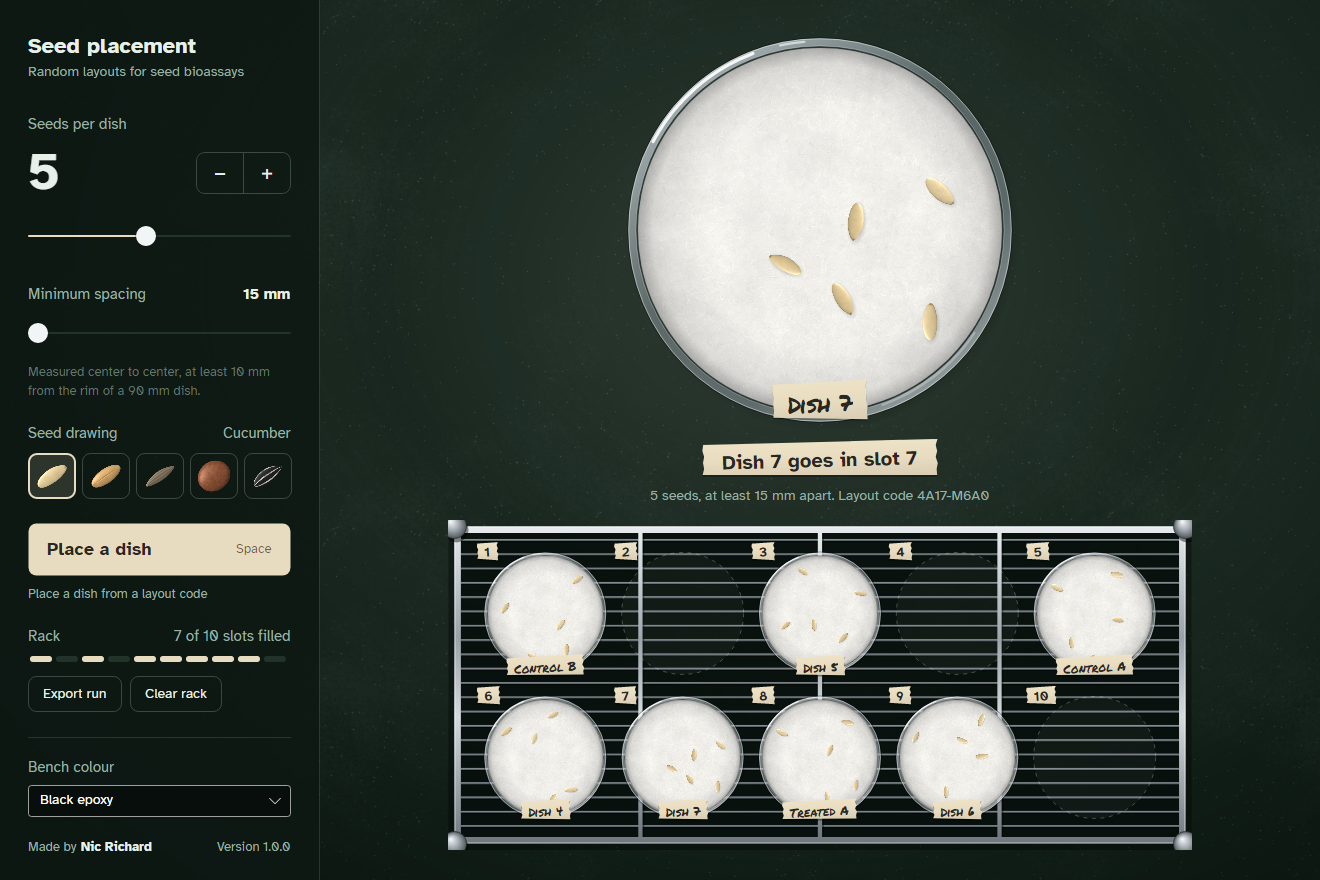
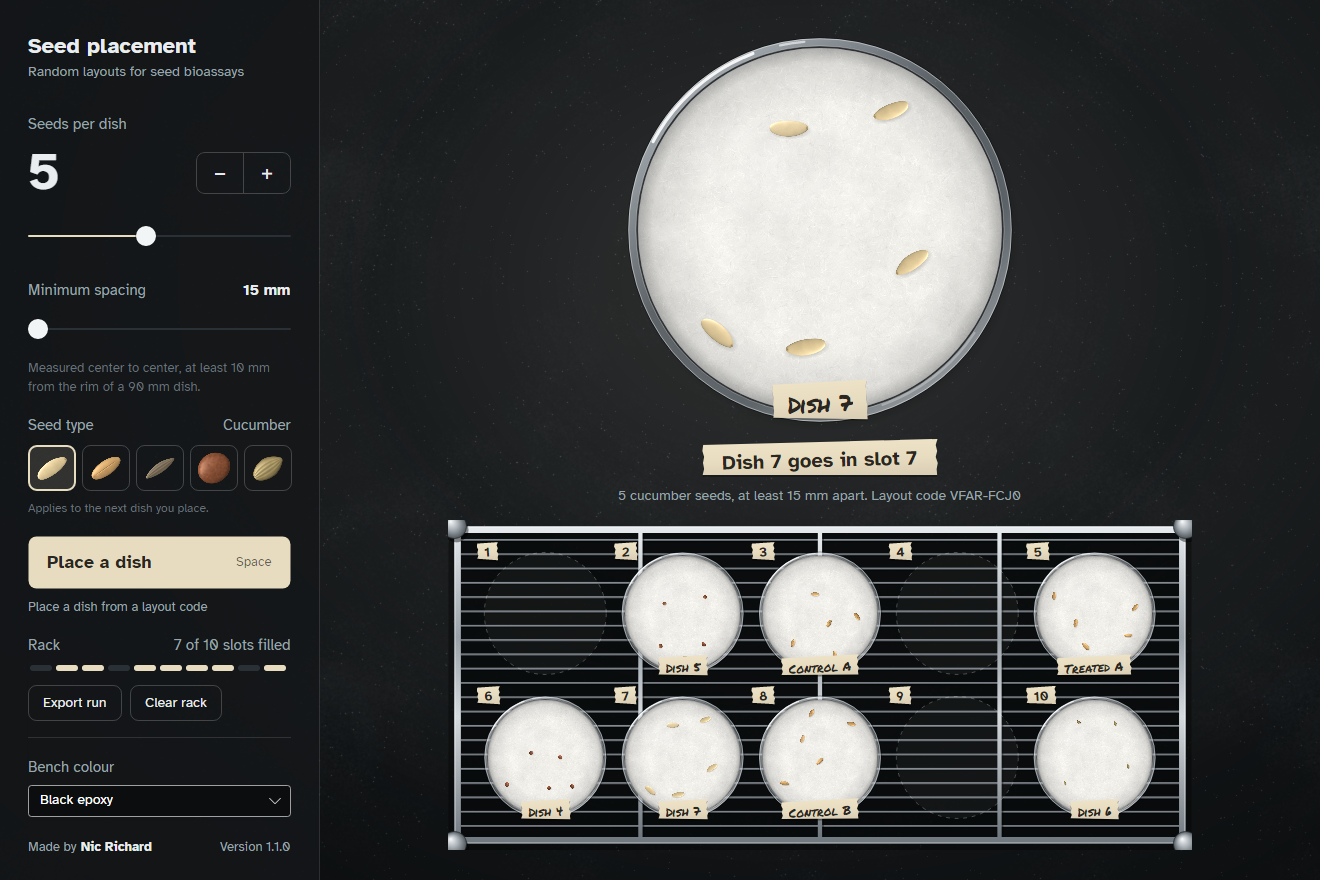
Record a seed type per dish and add barnyard grass
- Each dish now keeps its own seed type, so one rack can hold concurrent experiments; the selected type applies to the next dish placed
- Seed types are saved and restored with the run, named in dish summaries and templates, and exported in a new CSV column
- Barnyard grass replaced sunflower
- The seed picker is now labelled Seed type
- Version is now 1.1.0

diff --git a/assets-src/generate_assets.py b/assets-src/generate_assets.py
@@ -39,8 +39,8 @@ SEED_KINDS = {
                     spread=(0.04, 0.04, 0.035), pattern="ribs", relief=0.22, bend=0.16),
     "radish": dict(aspect=1.18, point=((0.0, 0.06), (0.0, 0.04)), color=(0.55, 0.32, 0.21),
                    spread=(0.05, 0.035, 0.025), pattern="mottle", relief=0.42, bend=0.05),
-    "sunflower": dict(aspect=2.05, point=((0.46, 0.56), (0.0, 0.05)), color=(0.12, 0.12, 0.13),
-                      spread=(0.02, 0.02, 0.02), pattern="stripes", relief=0.22, bend=0.06),
+    "barnyard-grass": dict(aspect=1.75, point=((0.34, 0.44), (0.02, 0.08)), color=(0.66, 0.58, 0.38),
+                           spread=(0.05, 0.05, 0.04), pattern="hull", relief=0.36, bend=0.05),
 }
 SEED_VARIANTS = 6
 SEED_SPRITE = 240
@@ -99,13 +99,13 @@ def seed(kind, variant):
         color *= (1 - 0.12 * ribs)[..., None]
     elif pattern == "mottle":
         blotch = smooth_noise(rng, (size, size), 4 * SS) * 0.16
-    elif pattern == "stripes":
-        wobble = smooth_noise(rng, (size, size), 20 * SS) * 0.06
-        band = 0.5 + 0.5 * np.cos((across + wobble) * np.pi * 2.6 + rng.uniform(0, np.pi))
-        streak = np.clip((band - 0.78) / 0.14, 0, 1) * np.clip(0.75 + smooth_noise(rng, (size, size), 8 * SS), 0, 1)
-        stripe = np.array([0.80, 0.80, 0.76])
-        color = color * (1 - streak[..., None]) + stripe * streak[..., None]
-        grain *= 1.8
+    elif pattern == "hull":
+        veins = 0.5 + 0.5 * np.cos(across * np.pi * 5.5)
+        height_map = height_map * (1 - 0.06 * veins)
+        color *= (1 - 0.10 * veins)[..., None]
+        rim = np.clip((rel - 0.72) / 0.22, 0, 1) * (rel < 1)
+        color *= 1 - rim[..., None] * np.array([0.22, 0.24, 0.26])
+        blotch *= 1.6
 
     color = color * (1 + blotch + grain)[..., None]
     height_map = gaussian_filter(height_map, SS)

diff --git a/src/SeedPlacement.App/Views/MainWindow.axaml.cs b/src/SeedPlacement.App/Views/MainWindow.axaml.cs
@@ -86,6 +86,7 @@ public sealed partial class MainWindow : Window
         BenchEmptyText.IsVisible = false;
         BenchDishView.IsEmptyGhost = false;
         BenchDishView.Reveal = double.MaxValue;
+        BenchDishView.SeedKind = dish.Kind;
         BenchDishView.Layout = dish.Layout;
         BenchHost.Opacity = 1;
         CaptionTape.Opacity = 1;
@@ -148,6 +149,7 @@ public sealed partial class MainWindow : Window
         BenchEmptyText.IsVisible = false;
         bench.IsEmptyGhost = false;
         bench.Reveal = 0;
+        bench.SeedKind = e.Dish.Kind;
         bench.Layout = e.Dish.Layout;
         CaptionTape.Opacity = 0;
 
@@ -178,7 +180,7 @@ public sealed partial class MainWindow : Window
         var to = BoundsIn(target, FlightLayer);
         if (from is not { } start || to is not { } end) return;
 
-        var ghost = new DishView { Layout = e.Dish.Layout, Width = start.Width, Height = start.Height };
+        var ghost = new DishView { Layout = e.Dish.Layout, SeedKind = e.Dish.Kind, Width = start.Width, Height = start.Height };
         Canvas.SetLeft(ghost, start.X);
         Canvas.SetTop(ghost, start.Y);
         FlightLayer.Children.Add(ghost);
@@ -215,7 +217,7 @@ public sealed partial class MainWindow : Window
         if (slotButton is null || BoundsIn(slotButton, FlightLayer) is not { } rect) return;
         var delay = TimeSpan.FromMilliseconds(45 * _pendingRemovals++);
 
-        var ghost = new DishView { Layout = e.Dish.Layout, Width = rect.Width, Height = rect.Height };
+        var ghost = new DishView { Layout = e.Dish.Layout, SeedKind = e.Dish.Kind, Width = rect.Width, Height = rect.Height };
         Canvas.SetLeft(ghost, rect.X);
         Canvas.SetTop(ghost, rect.Y);
         FlightLayer.Children.Add(ghost);

diff --git a/src/SeedPlacement.App/Controls/SeedKind.cs b/src/SeedPlacement.App/Controls/SeedKind.cs
@@ -1,13 +1,13 @@
 namespace SeedPlacement.App.Controls;
 
-/// <summary>How seeds are drawn. Purely visual: it never affects placement or spacing.</summary>
+/// <summary>What is growing in a dish. It sets how seeds are drawn and is recorded, but never affects placement.</summary>
 public enum SeedKind
 {
     Cucumber,
     Wheat,
     Lettuce,
     Radish,
-    Sunflower,
+    BarnyardGrass,
 }
 
 public sealed record SeedKindInfo(SeedKind Kind, string Name, double LengthMm, double Aspect)
@@ -18,12 +18,16 @@ public sealed record SeedKindInfo(SeedKind Kind, string Name, double LengthMm, d
         new(SeedKind.Wheat, "Wheat", 6.5, 2.15),
         new(SeedKind.Lettuce, "Lettuce", 4.2, 3.4),
         new(SeedKind.Radish, "Radish", 3.3, 1.18),
-        new(SeedKind.Sunflower, "Sunflower", 10, 2.05),
+        new(SeedKind.BarnyardGrass, "Barnyard grass", 3.3, 1.75),
     ];
 
     public static SeedKindInfo Of(SeedKind kind) => All[(int)kind];
 
-    public string AssetKey => Name.ToLowerInvariant();
+    /// <summary>Finds a type by the name stored with a dish; dishes saved without one are cucumber.</summary>
+    public static SeedKindInfo Named(string? name) =>
+        All.FirstOrDefault(k => string.Equals(k.Name, name, StringComparison.OrdinalIgnoreCase)) ?? All[0];
+
+    public string AssetKey => Name.ToLowerInvariant().Replace(' ', '-');
 
     public Uri SpriteUri(int variant) =>
         new($"avares://SeedPlacementRandomizer/Assets/Seeds/{AssetKey}-{variant}.png");

diff --git a/tests/SeedPlacement.Tests/RunRecordTests.cs b/tests/SeedPlacement.Tests/RunRecordTests.cs
@@ -7,7 +7,11 @@ public class RunRecordTests
     private static Rack FilledRack()
     {
         var rack = new Rack();
-        for (uint i = 0; i < 4; i++) rack.Shelve(SeedSampler.Generate(new LayoutCode(i * 977, new PlacementSettings(3 + (int)i, 15 + i))));
+        var types = new[] { "Wheat", "Barnyard grass", null, "Radish" };
+        for (uint i = 0; i < 4; i++)
+        {
+            rack.Shelve(SeedSampler.Generate(new LayoutCode(i * 977, new PlacementSettings(3 + (int)i, 15 + i))), types[i]);
+        }
         var first = Enumerable.Range(0, Rack.SlotCount).First(s => rack.Slots[s] is not null);
         rack.Relabel(first, "Control, \"A\"");
         rack.Remove(Enumerable.Range(0, Rack.SlotCount).Last(s => rack.Slots[s] is not null));
@@ -31,6 +35,7 @@ public class RunRecordTests
             if (a is null || b is null) continue;
             Assert.Equal(a.Number, b.Number);
             Assert.Equal(a.Label, b.Label);
+            Assert.Equal(a.SeedType, b.SeedType);
             Assert.Equal(a.Layout.Seeds, b.Layout.Seeds);
         }
     }
@@ -59,5 +64,6 @@ public class RunRecordTests
         Assert.Equal(RunCsv.Header, lines[0]);
         Assert.Equal(rack.Slots.Sum(d => d?.Layout.Seeds.Count ?? 0), lines.Length - 1);
         Assert.Contains(lines, l => l.Contains("\"Control, \"\"A\"\"\""));
+        Assert.Contains(lines, l => l.Contains(",Barnyard grass,"));
     }
 }

diff --git a/src/SeedPlacement.App/Export/TemplatePdf.cs b/src/SeedPlacement.App/Export/TemplatePdf.cs
@@ -1,5 +1,6 @@
 using System.Globalization;
 using Avalonia.Platform;
+using SeedPlacement.App.ViewModels;
 using SeedPlacement.Core;
 using SkiaSharp;
 
@@ -73,7 +74,7 @@ public static class TemplatePdf
 
         var left = area.Left + 40;
         canvas.DrawText($"{dish.DisplayLabel} goes in slot {Rack.SlotNumber(slot)}", left, area.Top + 44, title, text);
-        canvas.DrawText($"{DescribeSeeds(layout)}. Layout code {layout.Code}", left, area.Top + 60, body, muted);
+        canvas.DrawText($"{DishItem.Describe(layout, dish.SeedType)}. Layout code {layout.Code}", left, area.Top + 60, body, muted);
 
         var center = new SKPoint(area.MidX, area.Top + 60 + (area.Height - 60) / 2 + 4);
         var radius = (float)layout.Dish.RadiusMm * PointsPerMm;
@@ -121,11 +122,6 @@ public static class TemplatePdf
         canvas.DrawLine(x + length, y - 4, x + length, y + 4, paint);
         canvas.DrawText("Print at actual size (100%), not fit to page. This line should measure 50 mm.", x + length + 10, y + 3, SKTextAlign.Left, font, paint);
     }
-
-    private static string DescribeSeeds(DishLayout layout) =>
-        layout.Seeds.Count == 1
-            ? "1 seed"
-            : $"{layout.Seeds.Count} seeds, at least {layout.Settings.SpacingMm.ToString("0.#", CultureInfo.InvariantCulture)} mm apart";
 
     private static SKTypeface LoadFont(string file)
     {

diff --git a/src/SeedPlacement.Core/RunRecord.cs b/src/SeedPlacement.Core/RunRecord.cs
@@ -19,12 +19,12 @@ public sealed record RunRecord(int NextNumber, IReadOnlyList<RunRecord.Dish> Dis
 
     public int Version { get; init; } = CurrentVersion;
 
-    public sealed record Dish(int Slot, int Number, string Code, string? Label);
+    public sealed record Dish(int Slot, int Number, string Code, string? Label, string? SeedType = null);
 
     public static RunRecord From(Rack rack) => new(
         rack.NextNumber,
         rack.Slots
-            .Select((d, slot) => d is null ? null : new Dish(Rack.SlotNumber(slot), d.Number, d.Layout.Code.ToString(), d.Label))
+            .Select((d, slot) => d is null ? null : new Dish(Rack.SlotNumber(slot), d.Number, d.Layout.Code.ToString(), d.Label, d.SeedType))
             .OfType<Dish>()
             .ToList());
 
@@ -34,7 +34,7 @@ public sealed record RunRecord(int NextNumber, IReadOnlyList<RunRecord.Dish> Dis
         foreach (var d in Dishes)
         {
             if (!LayoutCode.TryParse(d.Code, out var code)) throw new FormatException($"'{d.Code}' is not a layout code.");
-            dishes.Add((d.Slot - 1, new ShelvedDish(d.Number, SeedSampler.Generate(code), d.Label)));
+            dishes.Add((d.Slot - 1, new ShelvedDish(d.Number, SeedSampler.Generate(code), d.Label, d.SeedType)));
         }
         rack.Restore(dishes, NextNumber);
     }

diff --git a/src/SeedPlacement.Core/Rack.cs b/src/SeedPlacement.Core/Rack.cs
@@ -2,7 +2,11 @@ using System.Security.Cryptography;
 
 namespace SeedPlacement.Core;
 
-public sealed record ShelvedDish(int Number, DishLayout Layout, string? Label = null)
+/// <summary>
+/// A dish on the rack. <see cref="SeedType"/> records what is growing in it, for labels and exports;
+/// it never affects where the seeds go.
+/// </summary>
+public sealed record ShelvedDish(int Number, DishLayout Layout, string? Label = null, string? SeedType = null)
 {
     public const int MaxLabelLength = 24;
 
@@ -36,12 +40,12 @@ public sealed class Rack
     /// Puts the dish in a uniformly random empty slot. Filling a rack this way gives every assignment of
     /// dishes to slots the same probability. Returns the zero-based slot index.
     /// </summary>
-    public int Shelve(DishLayout layout)
+    public int Shelve(DishLayout layout, string? seedType = null)
     {
         var empty = Enumerable.Range(0, SlotCount).Where(i => _slots[i] is null).ToArray();
         if (empty.Length == 0) throw new InvalidOperationException("The rack is full.");
         var slot = empty[_pick(empty.Length)];
-        _slots[slot] = new ShelvedDish(_nextNumber++, layout);
+        _slots[slot] = new ShelvedDish(_nextNumber++, layout, SeedType: seedType);
         return slot;
     }
 

diff --git a/src/SeedPlacement.App/Controls/DishView.cs b/src/SeedPlacement.App/Controls/DishView.cs
@@ -31,9 +31,8 @@ public sealed class DishView : Control
     public static readonly StyledProperty<bool> IsEmptyGhostProperty =
         AvaloniaProperty.Register<DishView, bool>(nameof(IsEmptyGhost));
 
-    /// <summary>Inherited, so setting it once on the window restyles every dish.</summary>
-    public static readonly AttachedProperty<SeedKind> SeedKindProperty =
-        AvaloniaProperty.RegisterAttached<DishView, Visual, SeedKind>("SeedKind", inherits: true);
+    public static readonly StyledProperty<SeedKind> SeedKindProperty =
+        AvaloniaProperty.Register<DishView, SeedKind>(nameof(SeedKind));
 
     public static readonly StyledProperty<Color> AccentProperty =
         AvaloniaProperty.Register<DishView, Color>(nameof(Accent), Color.Parse("#A8DB6E"));
@@ -124,10 +123,6 @@ public sealed class DishView : Control
         get => GetValue(GhostProperty);
         set => SetValue(GhostProperty, value);
     }
-
-    public static SeedKind GetSeedKind(Visual visual) => visual.GetValue(SeedKindProperty);
-
-    public static void SetSeedKind(Visual visual, SeedKind value) => visual.SetValue(SeedKindProperty, value);
 
     public static double RevealEnd(int seedCount) => Math.Max(0, seedCount - 1) * Stagger + 1;
 

diff --git a/src/SeedPlacement.App/ViewModels/DishItem.cs b/src/SeedPlacement.App/ViewModels/DishItem.cs
@@ -1,3 +1,4 @@
+using SeedPlacement.App.Controls;
 using SeedPlacement.Core;
 
 namespace SeedPlacement.App.ViewModels;
@@ -23,6 +24,8 @@ public sealed class DishItem : ObservableObject
 
     public DishLayout Layout => _dish.Layout;
 
+    public SeedKind Kind => SeedKindInfo.Named(_dish.SeedType).Kind;
+
     public int MaxLabelLength => ShelvedDish.MaxLabelLength;
 
     /// <summary>The label written on the dish's tape. Clearing it restores "Dish N".</summary>
@@ -46,13 +49,14 @@ public sealed class DishItem : ObservableObject
 
     public string Code => Layout.Code.ToString();
 
-    public string Summary => Describe(Layout);
+    public string Summary => Describe(Layout, _dish.SeedType);
 
     public string Detail => $"{Summary}. Layout code {Code}";
 
-    public static string Describe(DishLayout layout)
+    public static string Describe(DishLayout layout, string? seedType)
     {
         var n = layout.Seeds.Count;
-        return n == 1 ? "1 seed" : $"{n} seeds, at least {layout.Settings.SpacingMm:0.#} mm apart";
+        var type = SeedKindInfo.Named(seedType).Name.ToLowerInvariant();
+        return n == 1 ? $"1 {type} seed" : $"{n} {type} seeds, at least {layout.Settings.SpacingMm:0.#} mm apart";
     }
 }

diff --git a/tools/SeedPlacement.Snapshots/Program.cs b/tools/SeedPlacement.Snapshots/Program.cs
@@ -29,7 +29,12 @@ vm.SelectedPalette = Palette.Default;
 
 Pump(300);
 if (!options) Save("empty");
-for (var i = 0; i < 7; i++) await Generate(2800);
+var mix = new[] { SeedKind.Wheat, SeedKind.Wheat, SeedKind.Wheat, SeedKind.Radish, SeedKind.Radish, SeedKind.BarnyardGrass, SeedKind.Cucumber };
+foreach (var kind in mix)
+{
+    vm.SeedKind = kind;
+    await Generate(2800);
+}
 var labels = new[] { "Control A", "Control B", "Treated A" };
 foreach (var (slot, label) in vm.Slots.Where(s => s.HasDish).OrderBy(s => s.Dish!.Number).Zip(labels))
 {
@@ -57,8 +62,16 @@ foreach (var palette in Palette.All)
 vm.SelectedPalette = Palette.Default;
 foreach (var kind in SeedKindInfo.All)
 {
+    if (vm.IsRackFull || vm.Occupied > 8)
+    {
+        vm.ClearRackCommand.Execute(null);
+        vm.ClearRackCommand.Execute(null);
+        Pump(500);
+    }
     vm.SeedKind = kind.Kind;
-    Inspect();
+    await Generate(2800);
+    vm.Inspect(vm.Slots[vm.Bench!.Slot]);
+    Pump(700);
     Save(Path.Combine("seeds", kind.AssetKey));
     CloseInspector();
 }

diff --git a/src/SeedPlacement.Core/RunCsv.cs b/src/SeedPlacement.Core/RunCsv.cs
@@ -6,7 +6,7 @@ namespace SeedPlacement.Core;
 /// <summary>One row per seed, ordered by slot, for spreadsheets and lab records.</summary>
 public static class RunCsv
 {
-    public const string Header = "slot,dish,label,seed,x_mm,y_mm,layout_code,seeds_per_dish,min_spacing_mm";
+    public const string Header = "slot,dish,label,seed_type,seed,x_mm,y_mm,layout_code,seeds_per_dish,min_spacing_mm";
 
     public static string Write(Rack rack)
     {
@@ -22,6 +22,7 @@ public static class RunCsv
                 sb.Append(Rack.SlotNumber(slot)).Append(',')
                     .Append(dish.Number).Append(',')
                     .Append(Escape(dish.DisplayLabel)).Append(',')
+                    .Append(Escape(dish.SeedType ?? "")).Append(',')
                     .Append(i + 1).Append(',')
                     .Append(p.X.ToString("0.0", inv)).Append(',')
                     .Append(p.Y.ToString("0.0", inv)).Append(',')

diff --git a/tests/SeedPlacement.Tests/RackTests.cs b/tests/SeedPlacement.Tests/RackTests.cs
@@ -71,6 +71,18 @@ public class RackTests
     }
 
     [Fact]
+    public void Each_dish_keeps_its_own_seed_type()
+    {
+        var rack = new Rack();
+        var wheat = rack.Shelve(AnyLayout(), "Wheat");
+        var lettuce = rack.Shelve(AnyLayout(), "Lettuce");
+
+        Assert.Equal("Wheat", rack.Slots[wheat]!.SeedType);
+        Assert.Equal("Lettuce", rack.Slots[lettuce]!.SeedType);
+        Assert.Equal("Wheat", rack.Relabel(wheat, "Control A").SeedType);
+    }
+
+    [Fact]
     public void Slot_numbers_start_top_left_and_read_across()
     {
         Assert.Equal(1, Rack.SlotNumber(0));
